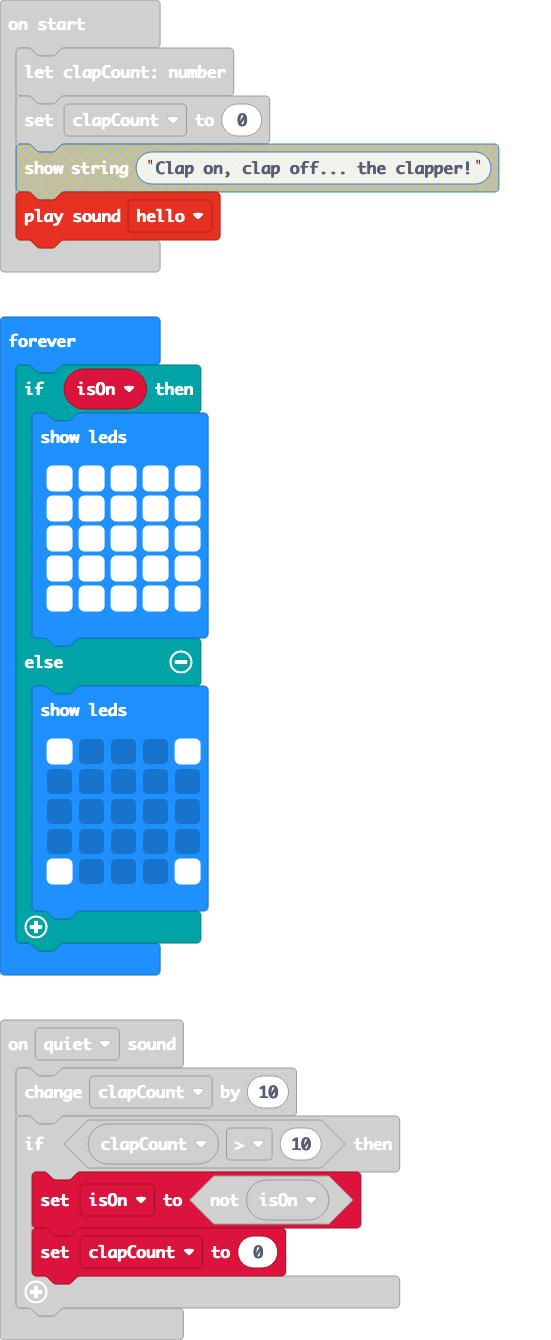
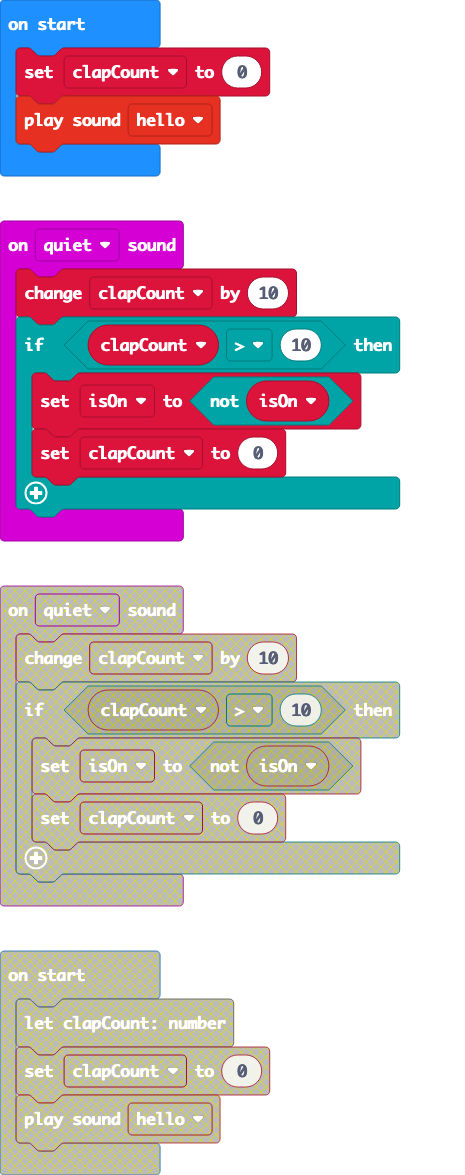
"let clapCount = 0; clapCount = 0" fixes useless "let clapCount: number"

diff --git a/main.ts b/main.ts
@@ -6,7 +6,7 @@ input.onSound(DetectedSound.Quiet, function () {
     }
 })
 let isOn = false
-let clapCount: number
+let clapCount = 0
 clapCount = 0
 soundExpression.hello.play()
 basic.forever(function () {
